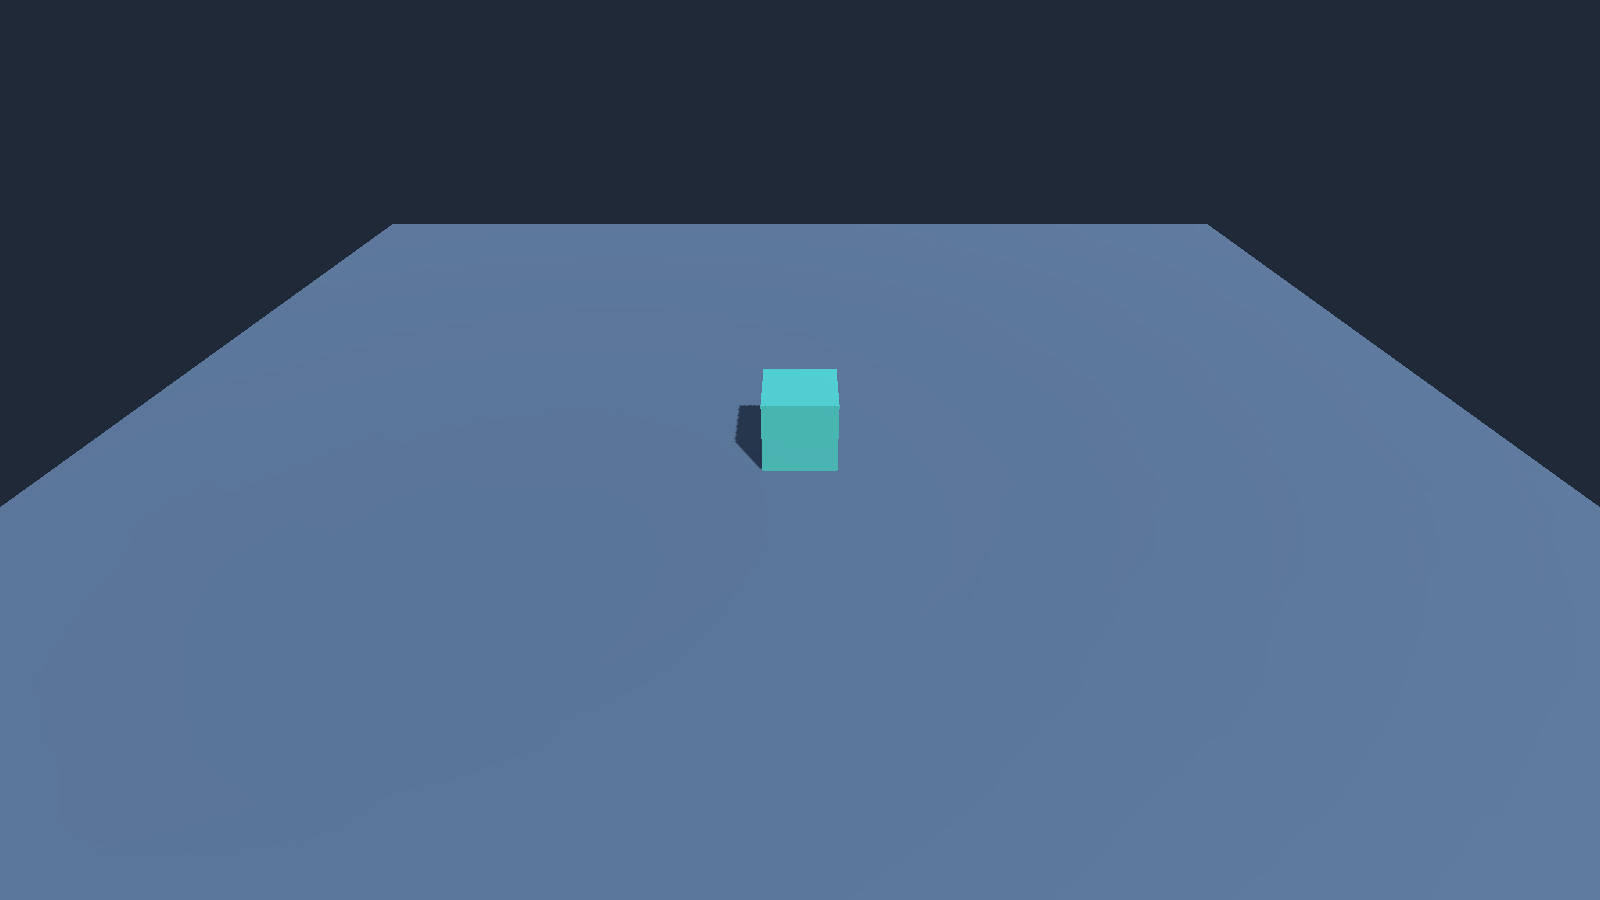
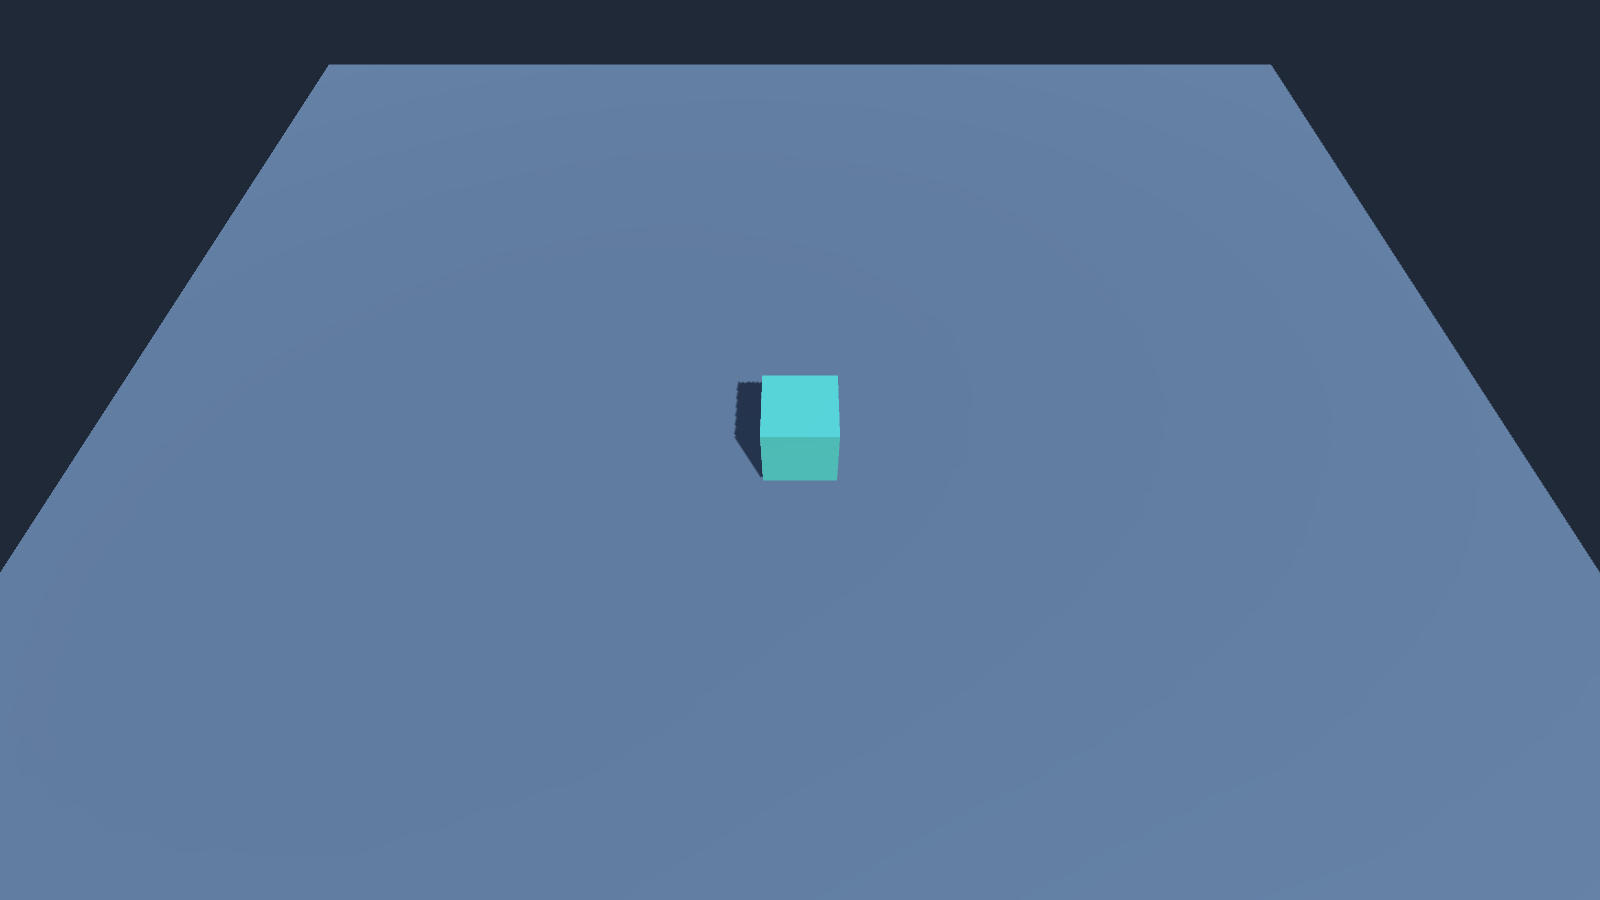
Set gameplay camera pitch to 55 degrees

diff --git a/Assets/Editor/ProjectSetup.cs b/Assets/Editor/ProjectSetup.cs
@@ -17,8 +17,9 @@ public static class ProjectSetup
         var camera = cameraObject.GetComponent<Camera>();
         camera.orthographic = false;
         camera.fieldOfView = 60;
-        camera.transform.position = new Vector3(0, 6, -9);
-        camera.transform.LookAt(Vector3.zero);
+        // Keep the original ground focus and viewing distance; change only pitch.
+        camera.transform.rotation = Quaternion.Euler(55f, 0f, 0f);
+        camera.transform.position = -camera.transform.forward * new Vector3(0, 6, -9).magnitude;
         var bounds = new GameObject("Camera Movement Bounds", typeof(CameraMovementBounds)).GetComponent<CameraMovementBounds>();
         cameraObject.AddComponent<CameraController>().MovementBounds = bounds;
         camera.clearFlags = CameraClearFlags.SolidColor;

diff --git a/Documentation/camera-controller.md b/Documentation/camera-controller.md
@@ -12,7 +12,15 @@ Pointer count/identity changes, releases/cancellations, viewport changes and foc
 
 The component uses the project's existing legacy Input backend (Active Input Handling: Input Manager). Attach it to a downward-looking perspective Camera and assign a Camera Movement Bounds component. The starter scene creation menu preserves this wiring.
 
+## Camera pitch
+
+The Main Camera uses a fixed **55° downward pitch** inspired by the Northend moodboard. Pitch is measured below horizontal: 0° is horizontal and 90° is straight down. This is a chosen starting setting, not a measured Northend specification. Yaw and roll remain 0°; perspective projection and 60° vertical FOV are unchanged. Pan and zoom retain this orientation.
+
+The scene and starter-scene generator share this pitch. The camera still focuses on the origin at its original distance of √117 (about 10.82) world units; its initial position is approximately `(0, 8.860, -6.204)`.
+
 ## Validation
+
+For the 55° pitch update, Unity 6000.6.7f1 passed all 51 existing camera-controller assertions and refreshed the camera screenshots below. Starter-scene validation and cube framing checks at 16:9, 19.5:9, and 4:3 also passed; README/mobile screenshots were refreshed. This update was checked with editor renders and synthetic input; mobile builds and physical device checks were not repeated.
 
 Run **Tools > Super Tower Defense > Validate Camera Controller**, or:
 

diff --git a/README.md b/README.md
@@ -2,7 +2,7 @@
 
 Unity 3D starter project using Unity **6000.6.7f1** and the built-in render pipeline.
 
-Open this repository folder in Unity Hub with the version in `ProjectSettings/ProjectVersion.txt`, then open `Assets/Scenes/Main.unity` and press Play. The scene contains a perspective Main Camera (60° field of view), audio listener, directional light, ground plane and starter cube. `Main` is the enabled build scene. No gameplay is implemented yet.
+Open this repository folder in Unity Hub with the version in `ProjectSettings/ProjectVersion.txt`, then open `Assets/Scenes/Main.unity` and press Play. The scene contains a perspective Main Camera (55° downward pitch, 60° field of view), audio listener, directional light, ground plane and starter cube. `Main` is the enabled build scene. No gameplay is implemented yet.
 
 The cube and plane provide a simple 3D reference for future work. Recreate the scene with **Tools > Super Tower Defense > Create Starter Scene**. This replaces the current scene; save any scene work first.
 
